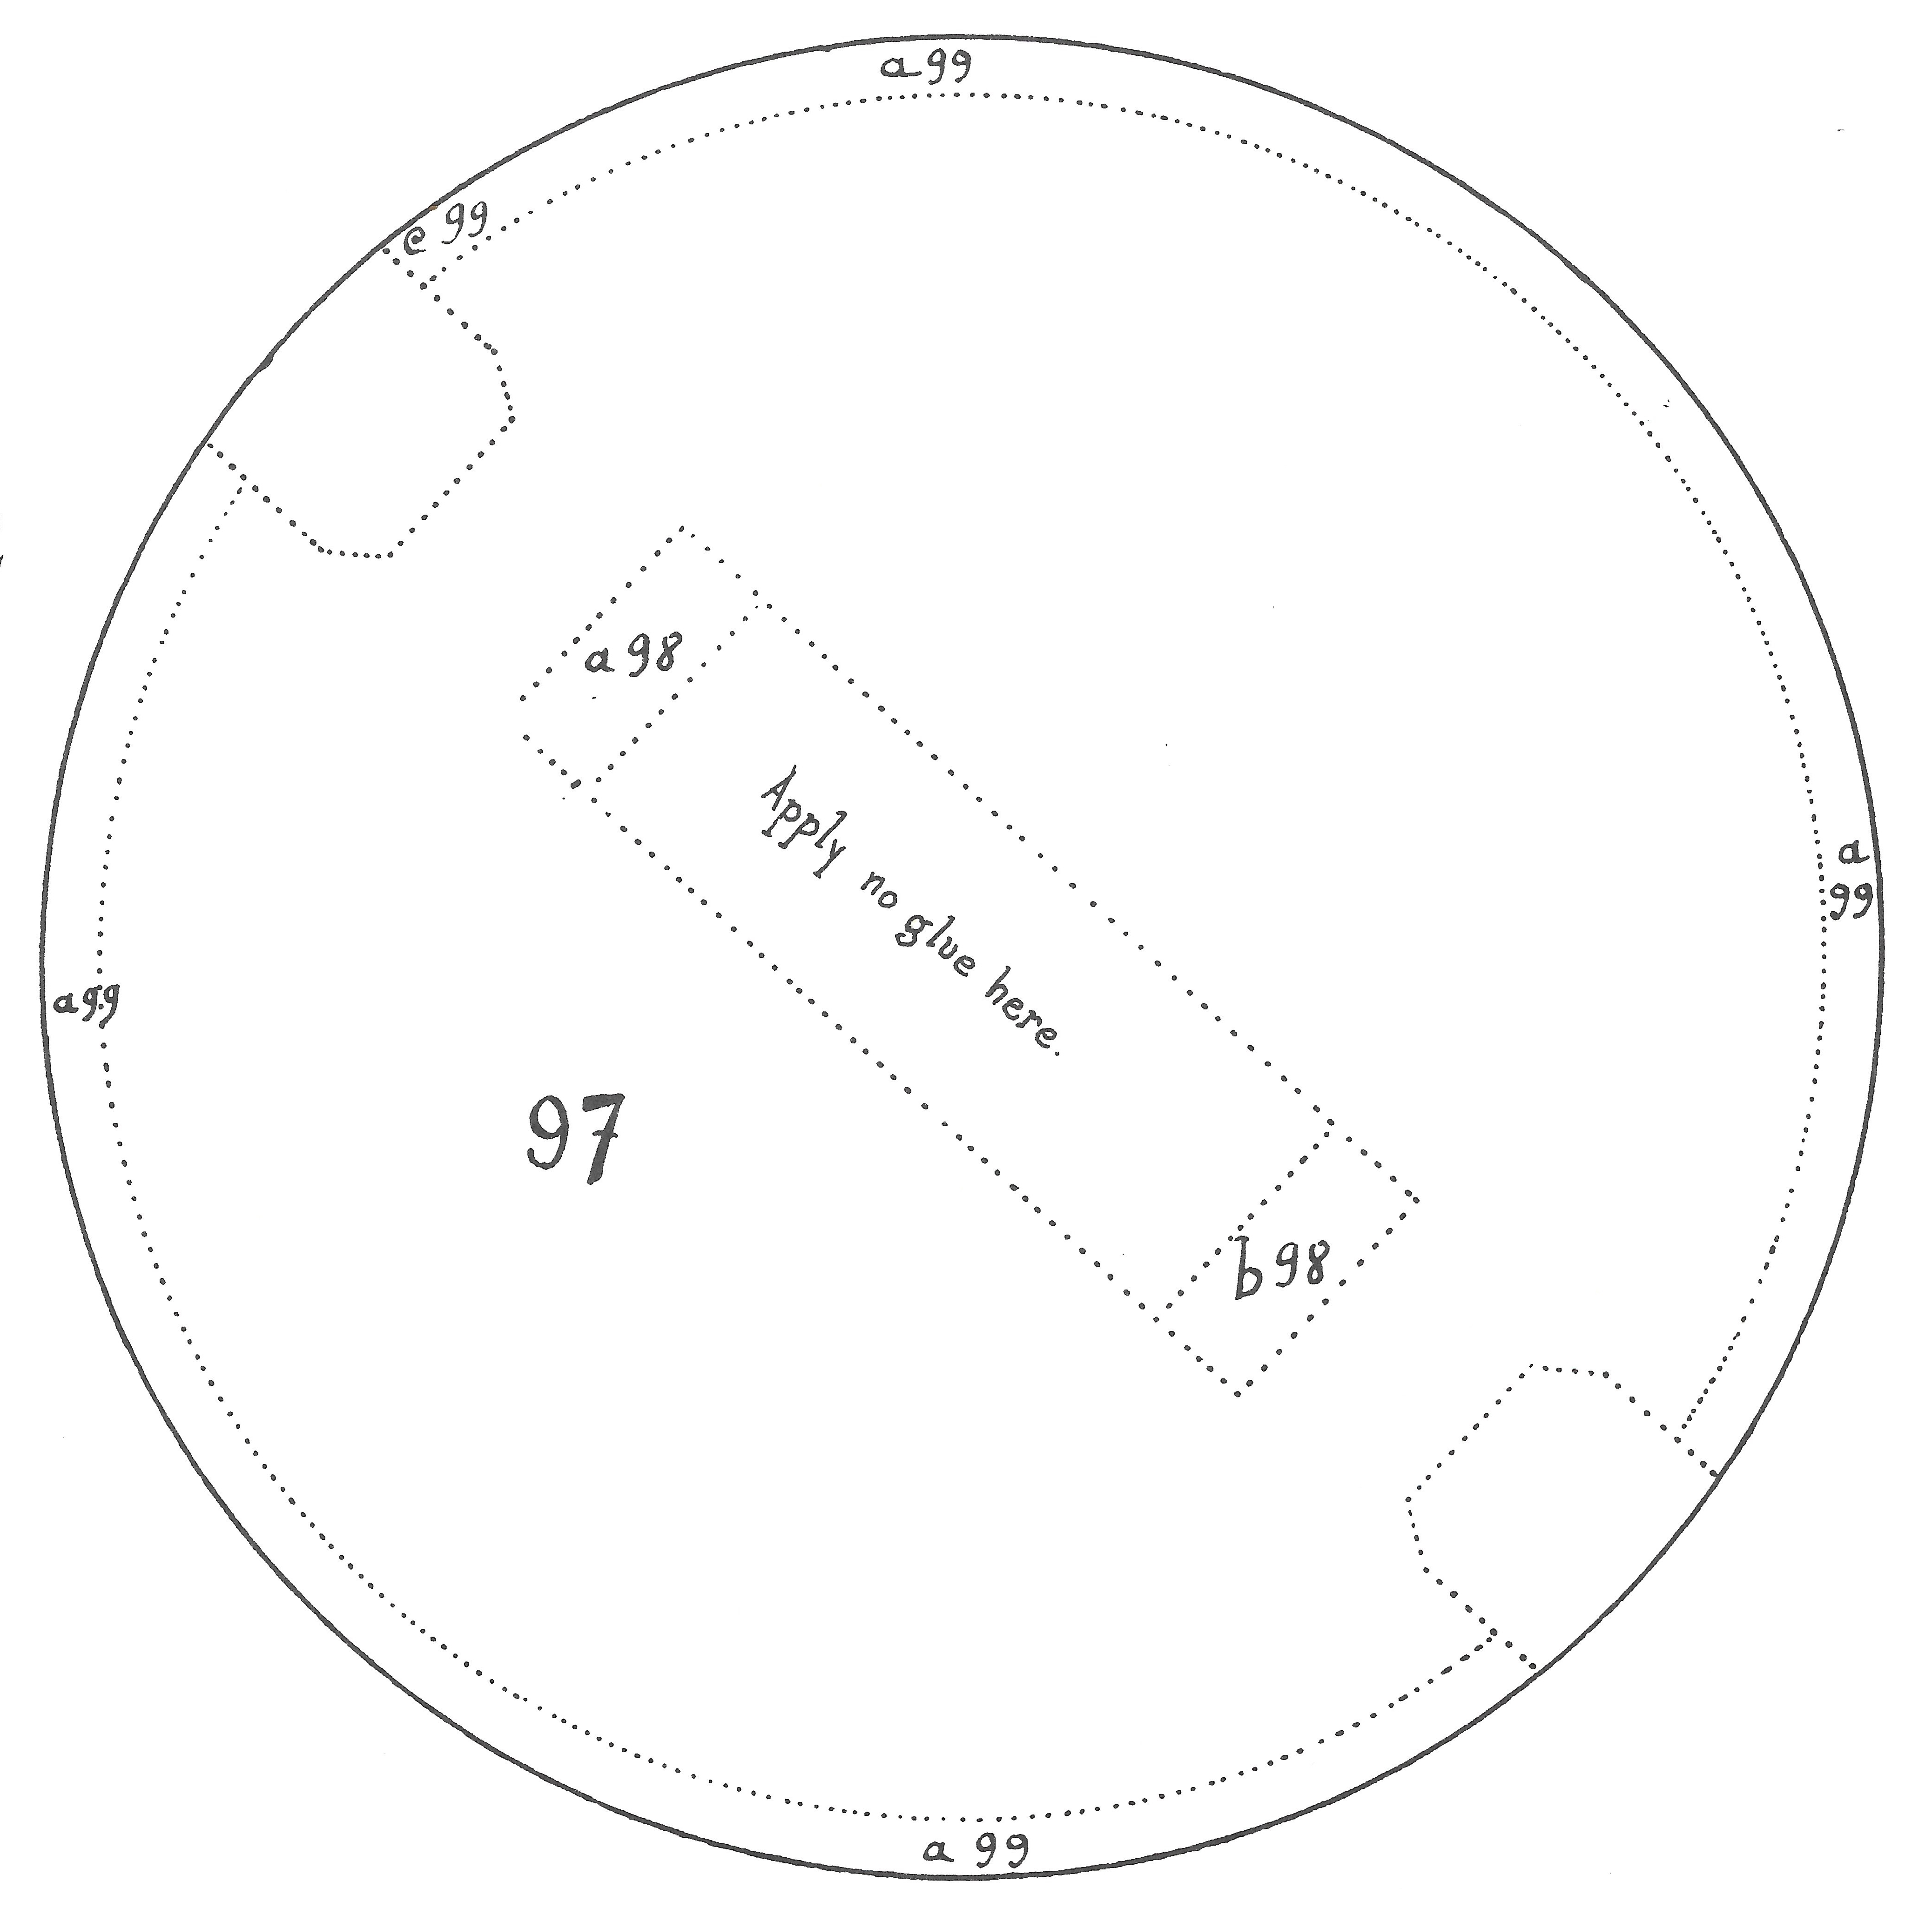
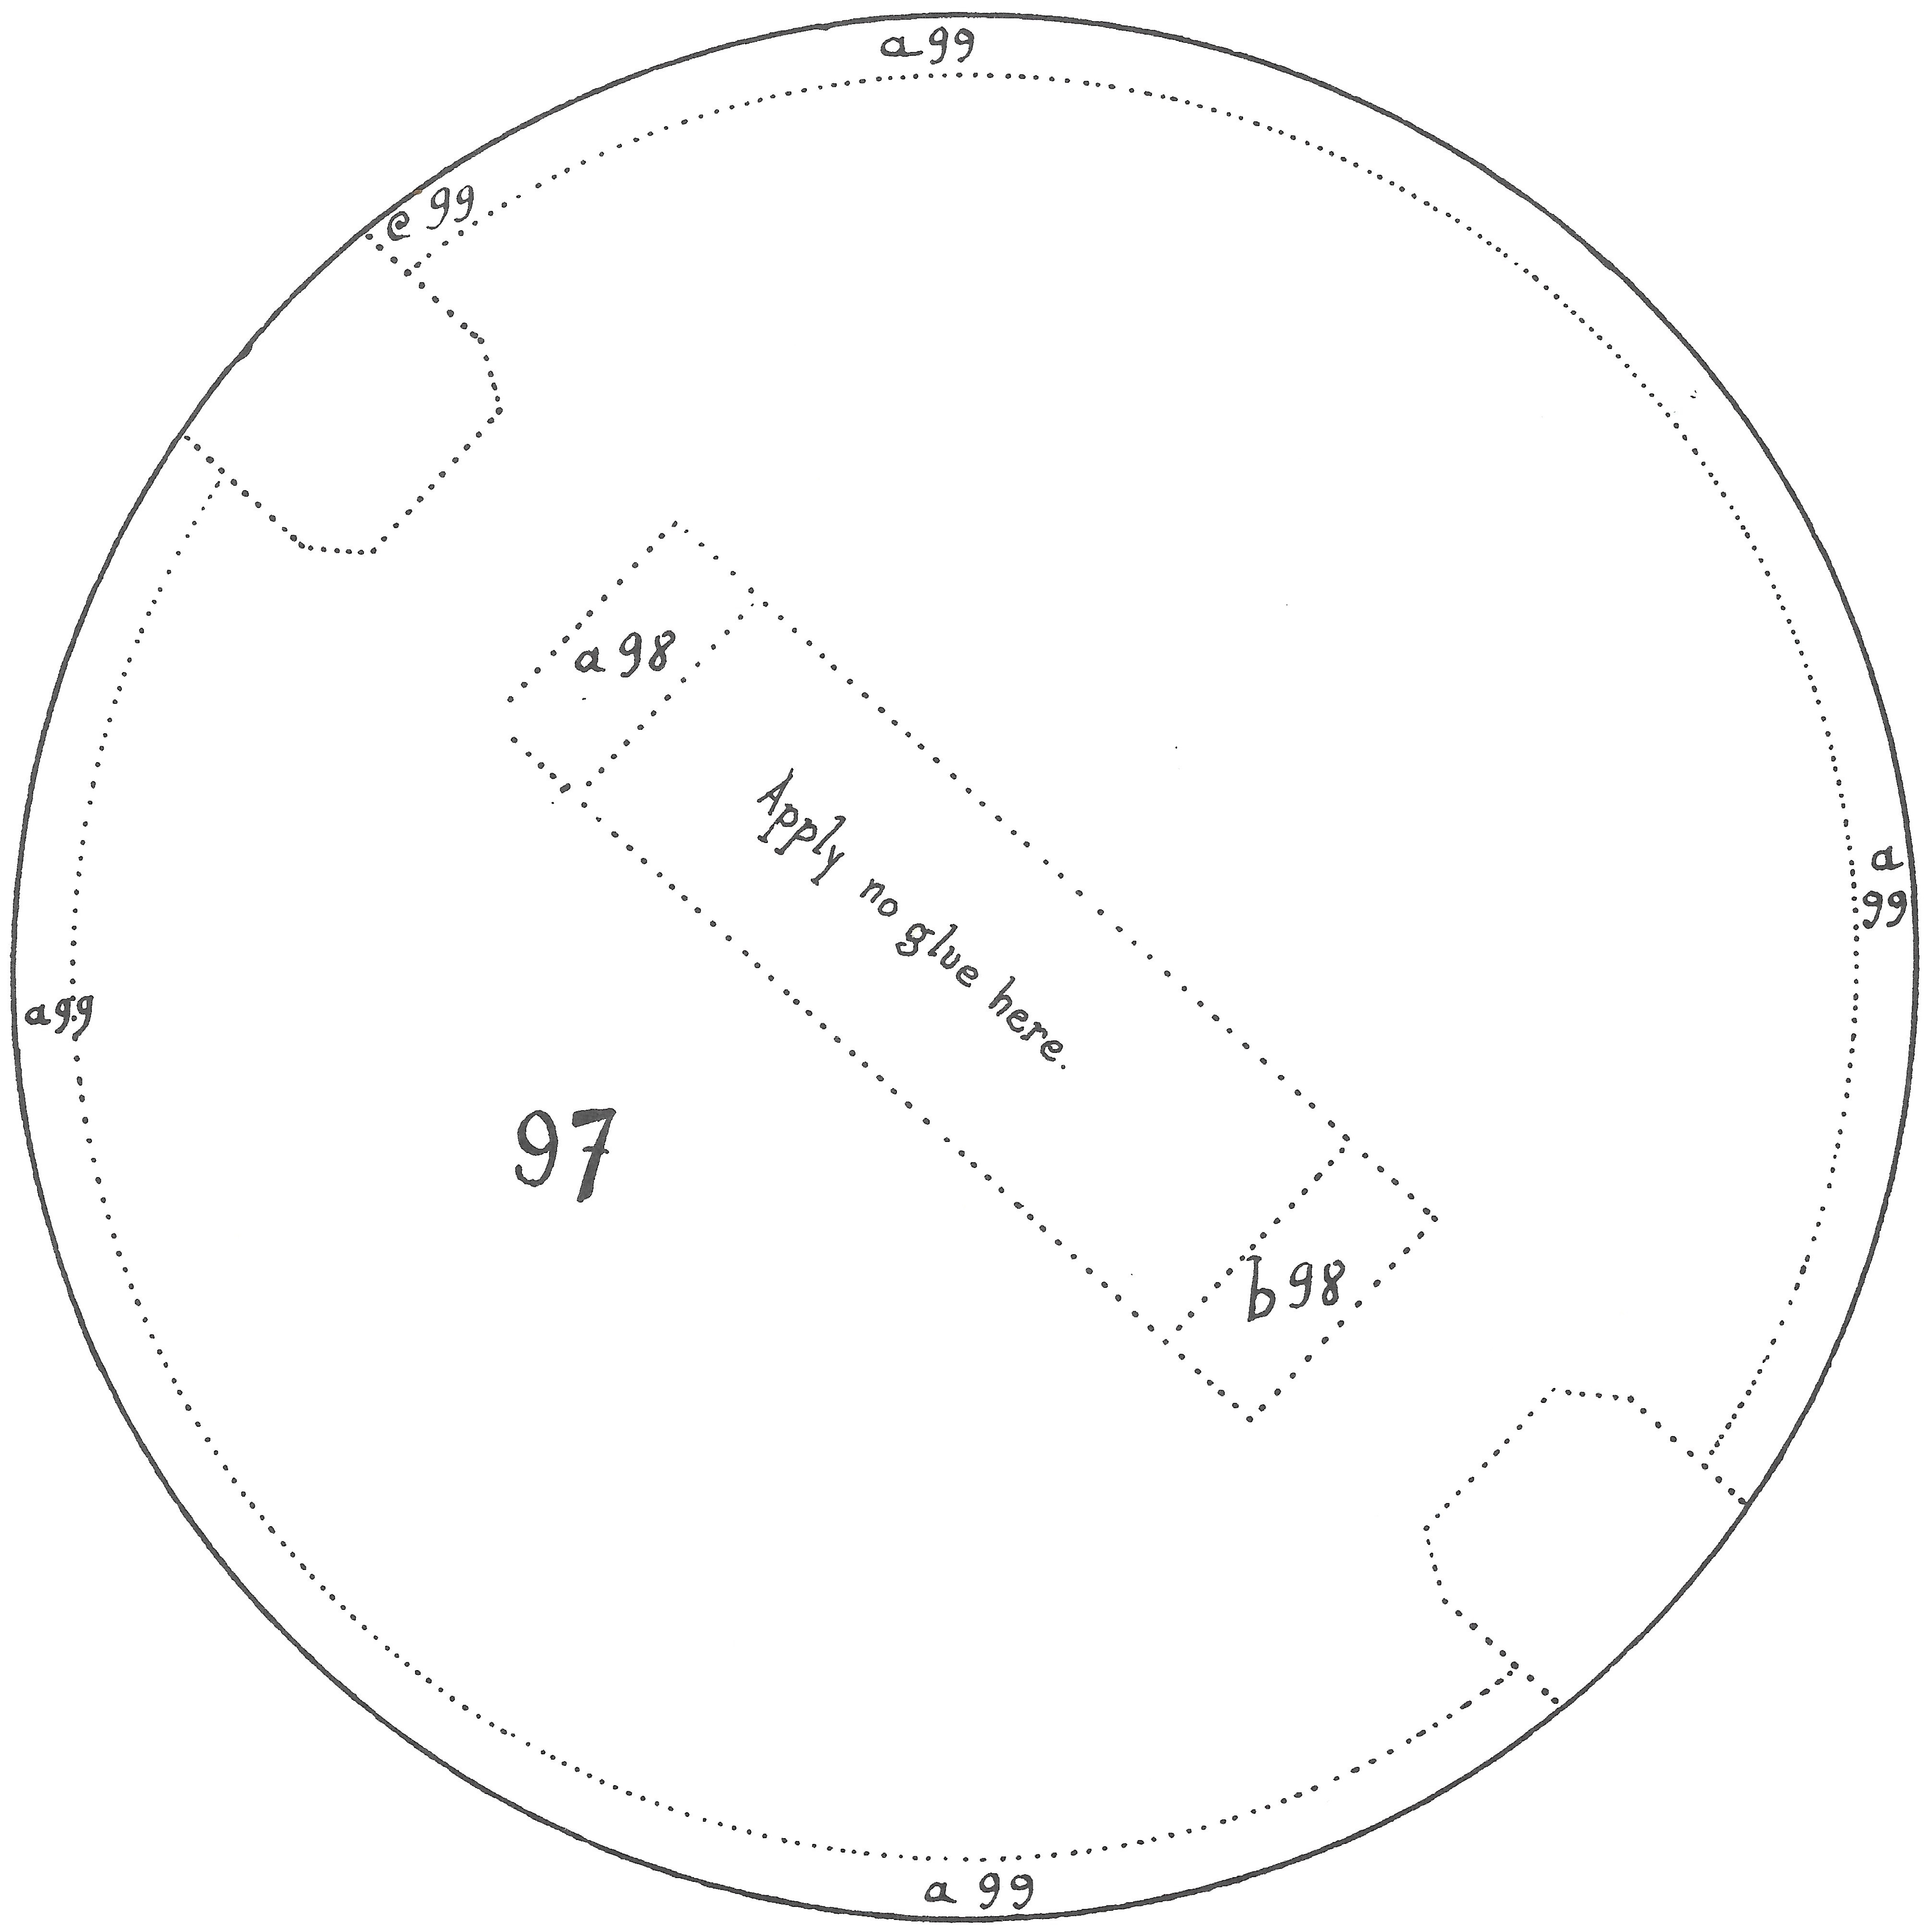
ingest 16 more pngs; 117 of 123 captured
Third ingest pass on inbox/. Sixteen new per-piece captures land in source/pieces/, including the editor crops of pieces 34/35/94 out of the stitched composites from the prior session. Plate B framework strips (003, 005, 008) and two of six brackets (012, 015) land. Plate F anchor/pendulum (065, 067) and hands (073, 075, 076, 080, 120) land. Plate G motor-wheel teeth strips (034, 035) land as tight crops out of 34_35_stitched.png. Plate H pendulum-bob casing (094) lands directly from 94_stitched.png (composite already tight). Plate M clock face (121) lands at full 5088×7016 px. pieces.csv status flipped pending → captured for all 16.

Piece 080 arrived as both 080.jpeg and 080.png with effectively identical content (mean pixel diff 0.17). The PNG is the canonical archive at source/pieces/080.png; the JPG is parked at source/scans-chunks/080.jpeg as a redundant intermediate.

Both 34_35_stitched.png and 94_stitched.png from the prior session are no longer in source/scans-chunks/ — the editor pass moved/replaced them. The L/R partials remain, so re-stitching is possible if recovery is ever needed.
[…]

diff --git a/sessions/2026-05-01-0130_cowork_inbox-ingest-batch3.md b/sessions/2026-05-01-0130_cowork_inbox-ingest-batch3.md
@@ -1,0 +1,79 @@
+---
+date: 2026-05-01
+start_time: "01:30"
+end_time: "02:00"
+mode: cowork
+participant: Zarathale (Alan)
+---
+
+## Goal
+
+Third ingest pass on `inbox/`. Sixteen new per-piece PNGs to promote, including the editor crops of pieces 34/35/94 out of the stitched composites from the prior session. After this pass, 95% of the master list is captured.
+
+## What was done
+
+**Per-piece moves to `source/pieces/`** — all 16 currently `pending` in `pieces.csv`, all flipped to `captured`:
+
+| Piece | Plate | Section | Notes |
+|---|---|---|---|
+| 003 | B | framework | Vertical frame strip (paired with 1) |
+| 005 | B | framework | Vertical frame strip (paired with 2) |
+| 008 | B | framework | Vertical frame strip (paired with 6) |
+| 012 | B | framework | Bracket piece (12/13/14 top row — 13/14 still pending) |
+| 015 | B | framework | Bracket piece (15/16/17 bottom row — 16/17 still pending) |
+| 034 | G | motor-wheel | Tight crop out of `34_35_stitched.png` |
+| 035 | G | motor-wheel | Tight crop out of `34_35_stitched.png` |
+| 065 | F | anchor-pendulum | Zig-zag anchor arm |
+| 067 | F | anchor-pendulum | Rear plate of the anchor; flap labels a–f |
+| 073 | F | hands | Star-shaped hands-assembly wheel |
+| 075 | F | hands | Star-shaped hands-assembly wheel |
+| 076 | F | hands | Small rectangular piece for minute-hand assembly |
+| 080 | F | hands | Small rectangle ("Push into wheel 78") |
+| 094 | H | anchor-pendulum | Crop out of `94_stitched.png` (composite already tight; no further cropping needed) |
+| 120 | F | reference | Axle-mount cardboard square |
+| 121 | M | face-case | Clock face — 5088×7016 px (~8.48″×11.69″ at 600 DPI), full-page color capture |
+
+Crop quality is good across the batch — printed-area margins are 0–52 px on every file (most are <30 px). Tight enough that downstream `02-trace.py` should chew on these without complaint.
+
+**`080.jpeg` parked.** The same piece arrived in `inbox/` as both `080.jpeg` (64 KB) and `080.png` (113 KB). md5s differ but pixel-mean abs difference is 0.17 — same content, with the JPG being a slightly lossy intermediate of the PNG (or vice versa). The PNG went to `source/pieces/080.png` as the canonical archive; the JPG went to `source/scans-chunks/080.jpeg` as a redundant intermediate. Nothing deleted.
+
+**Stitched composites from prior session.** After Zarathale's editor pass, both `34_35_stitched.png` and `94_stitched.png` are no longer present in `source/scans-chunks/`. The Affinity/Photoshop save flow apparently moved or replaced them. The L/R partials (`34_35_l.jpeg`, `34_35_r.jpeg`, `94_l.jpeg`, `94_r.jpeg`) remain in `source/scans-chunks/`, so re-stitching is possible if recovery is ever needed — the stitcher script is at `outputs/stitch_lr.py` in the workspace temp dir (still not promoted to the repo; flagged in batch 2 session note as "promote if more L/R captures surface").
+
+**Cumulative state: 117 of 123 captured.** 6 still pending:
+
+- **013, 014** — plate B brackets, companions to the captured 012 (top row 12/13/14)
+- **016, 017** — plate B brackets, companions to the captured 015 (bottom row 15/16/17)
+- **090** — plate F reduction-gear pulley/gear-stack disc
+- **110** — plate A face-frame end rail (the only plate-A piece still missing; 1, 2, 6, 7 all captured)
+
+**Filesystem ↔ pieces.csv parity confirmed:** 117 captured rows ↔ 117 PNG files in `source/pieces/`, zero mismatches.
+
+**`source/scans-chunks/` housekeeping (parallel work, by Zarathale).** Visible in `git status` from this session: Z renamed `10.jpeg` → `010.jpeg` (3-digit consistency), deleted some superseded chunks (`092.jpeg`, `100.jpeg`), modified one (`097.png`), and added byte-identical per-piece copies of 034/035/092/097/100 to `source/scans-chunks/` alongside the canonical copies in `source/pieces/`. The duplicate per-piece copies are Z's deliberate redundant archive — left untouched. The chunks-folder is the recovery zone, so a few extra copies are harmless.
+
+**Files touched (this session, by Cowork):**
+
+- 16 mv to `source/pieces/`
+- 1 mv to `source/scans-chunks/` (`080.jpeg`)
+- `work/pieces.csv` — 16 status flips
+- `CLAUDE.md` — `source/pieces/` row bumped (101 → 117); new dated footer entry
+- `ROADMAP.md` — M0.5.4 progress (101 → 117) + still-pending list trimmed
+
+## Open questions
+
+None new. The two open items from prior sessions remain:
+
+1. **Promote `stitch_lr.py` to `work/scripts/`?** Still no decision. With only 6 captures left and likely no more L/R partials needed (those 6 pieces are all small-to-moderate, fittable under the lid), this may not be worth promoting at all. Flagging for closeout: if the remaining 6 land cleanly without stitching, archive the script as a one-off rather than promoting.
+
+2. **Stitch quality vs. editor stitch.** Now that 094 is in `source/pieces/` directly from the cv2 stitched composite, downstream tracing is the next quality check on the seam. If `02-trace.py` produces a clean silhouette across the seam region, that's strong evidence the stitch was good. If it doesn't, fall-back is re-stitching from the L/R partials in Affinity.
+
+## Next-session handoff
+
+The remaining 6 captures should be quick:
+
+- **Plate B brackets 013, 014, 016, 017** — these sit adjacent to the already-captured 012/015 in two 1×3 rows. Likely a single bed capture for the top row (12/13/14, with 12 already in hand for cross-check) and another for the bottom (15/16/17). Per spec, multi-piece chunks list complete pieces in ascending order — so a top-row chunk would be named `12_13_14.{jpeg,png}` (re-capturing 12 alongside 13/14 is fine; the cleanest of the two captures stays in `source/pieces/`).
+- **Plate F piece 090** — single small disc; quick capture.
+- **Plate A piece 110** — face-frame end rail; sits alongside other plate-A pieces (1, 2, 6, 7, 110) Z has already captured.
+
+Once those land, M0.5.4 closes. Then M0.5.5 (ingest skill audit) becomes meaningful — the helper script queued via `CODE_PROMPT_M0.5.2-piece-scan-ingest.md` should report a clean 123/123 captured archive with no pending. After that, M0.5.6 (pipeline reshape: archive `01-crop.py`, repoint `02-trace.py` at `source/pieces/`) is the next Code session and unblocks M2.
+
+Commit message for Zarathale to paste into GitHub Desktop is at the end of the closing chat message (subject and body in two separate code blocks).

diff --git a/sessions/2026-05-01-0030_cowork_inbox-ingest-batch2.md b/sessions/2026-05-01-0030_cowork_inbox-ingest-batch2.md
@@ -1,0 +1,64 @@
+---
+date: 2026-05-01
+start_time: "00:30"
+end_time: "01:15"
+mode: cowork
+participant: Zarathale (Alan)
+---
+
+## Goal
+
+Second ingest pass on `inbox/`. Four new per-piece PNGs to promote (010, 092, 097, 100), one byte-identical leftover (004), and four L/R partial captures for long pieces 34/35 and 94 that needed stitching before they could continue down the workflow.
+
+## What was done
+
+**Per-piece moves.** Five PNGs in inbox at the root, four of them actually new:
+
+- `010.png`, `092.png`, `097.png`, `100.png` → `source/pieces/`. All four were `pending` in `pieces.csv`; status flipped to `captured`.
+- `004.png` → `source/pieces/`. Byte-identical (md5 match) to the existing `source/pieces/004.png` from the first ingest pass. The mv is a no-op for the destination's content but cleans inbox/. No status change (already `captured`).
+
+**L/R stitching (programmatic).** Four scanner partials in inbox: `34_35_l.jpeg` + `34_35_r.jpeg` (multi-piece partial covering pieces 34 and 35, plate G's long zig-zag motor-wheel teeth strips) and `94_l.jpeg` + `94_r.jpeg` (single-piece partial for piece 94, plate H's long pendulum-bob outer casing). Zarathale opted to stitch programmatically rather than continuing in Affinity (option B in the in-session question). Implementation: a one-shot Python helper using `cv2.matchTemplate` with `TM_CCOEFF_NORMED` to find the (dx, dy) overlap between L and R, followed by a vectorized linear-feathered blend across the overlap region. Both stitches scored above the 0.7 "solid" threshold:
+
+| Pair | L size | R size | Output size | Overlap dx | Y-offset dy | Score |
+|---|---|---|---|---|---|---|
+| 34_35 | 6716×1122 | 6781×1124 | 10707×1135 | 2790 px | 11 px | 0.899 |
+| 94 | 6846×1554 | 5503×1575 | 9539×1584 | 2810 px | 9 px | 0.919 |
+
+At 600 DPI: stitched 34/35 ≈ 17.84″×1.89″; stitched 94 ≈ 15.90″×2.64″. Both consistent with the book's printed piece dimensions.
+
+The L/R partials and the stitched composites all moved to `source/scans-chunks/`:
+
+- `34_35_l.jpeg`, `34_35_r.jpeg`, `34_35_stitched.png`
+- `94_l.jpeg`, `94_r.jpeg`, `94_stitched.png`
+
+**Pieces 34, 35, 94 stay `pending` in `pieces.csv`.** The stitched composites are chunks, not per-piece crops — Zarathale still needs to open `34_35_stitched.png` and `94_stitched.png` in his editor and crop tightly to per-piece PNGs (`034.png`, `035.png`, `094.png`) before they land in `source/pieces/`. A future ingest pass will move those.
+
+**Stitcher helper.** The Python script lives at the working-directory level only (not in the repo). It's a 100-line one-shot with `cv2.matchTemplate` + linear-blend composite; if Zarathale wants to keep this capability available, the next session can move it to `work/scripts/stitch_lr.py` and document it in `SCAN-INTAKE-CHECKLIST.md`. Holding off on that until there's signal that this approach scales to other long-piece captures — the spec still treats stitching as an editor-side step by default.
+
+**Cumulative state after this session:** 101 of 123 pieces captured; 22 still pending: 003, 005, 008, 012, 013, 014, 015, 016, 017, 034, 035, 065, 067, 073, 075, 076, 080, 090, 094, 110, 120, 121. Concentration is now plate B framework brackets (12–17), plate F hands/anchor/pendulum, and the clock face (121). Pieces 34/35/94 are blocked on editor cropping, not new captures.
+
+**Files touched:**
+
+- 5 mv to `source/pieces/` (004 = no-op overwrite; 010/092/097/100 = new)
+- 6 mv to `source/scans-chunks/` (4 partials + 2 stitched composites)
+- `work/pieces.csv` — 4 status flips (010/092/097/100)
+- `CLAUDE.md` — bumped `source/pieces/` and `source/scans-chunks/` rows; added a new dated footer entry
+- `ROADMAP.md` — bumped M0.5.4 progress (97 → 101); updated still-pending list
+
+## Open questions
+
+**Should the stitcher live in the repo?** The current script is in the workspace temp directory, not committed. If Zarathale anticipates more L/R partial captures across the remaining 22 pending pieces (some of plate F's anchor/pendulum work could plausibly need stitching too), it's worth promoting the script to `work/scripts/stitch_lr.py` and adding a "Programmatic stitching (alternative)" subsection to `SCAN-INTAKE-CHECKLIST.md`. If this was a one-off and the rest of the pieces fit comfortably under the lid, no need.
+
+**Stitch quality vs. editor stitch.** cv2's TM_CCOEFF_NORMED at 0.9 is a strong correlation, but it's not the same as a manual visual check. The seam region is a 2790-px-wide linear blend — should be invisible if the underlying captures had similar exposure. Worth a quick spot-check in Inkscape or Preview before the editor cropping pass to confirm the seam isn't ghosting. If it is, the L/R partials are still in `source/scans-chunks/` for a re-stitch in Affinity.
+
+## Next-session handoff
+
+Two distinct threads, in priority order:
+
+1. **Continue M0.5.4** — capture and crop the remaining 22 pieces. Plate B framework brackets (12–17) likely need a single batch capture given they're a 2×3 grid in the same plate region. Plate F has a heavier load (065/067/073/075/076/080/090). Clock face (121) is one large capture probably from plate M (per `pieces.csv`). Pieces 003/005/008 are vertical frame strips paired with already-captured ones (1/2/6). Once captures land in inbox, the same ingest loop applies.
+
+2. **Editor-side cropping for 34/35/94.** Open `source/scans-chunks/34_35_stitched.png` in Affinity, crop to two per-piece PNGs (`034.png` and `035.png`), save into inbox or directly to `source/pieces/` per Zarathale's preference. Same for `94_stitched.png` → `094.png`. Spot-check the seam region while you're in there.
+
+The pipeline reshape (M0.5.6) is unblocked any time, but if Zarathale wants the trace pipeline to chew on the captured 101 pieces in parallel with the remaining captures, that's the natural next Code session — needs a `CODE_PROMPT_M0.5.6-pipeline-reshape.md`.
+
+Commit message for Zarathale to paste into GitHub Desktop is at the end of the closing chat message (subject and body in two separate code blocks).

diff --git a/CLAUDE.md b/CLAUDE.md
@@ -66,8 +66,8 @@ The study side is complete. The build side hit a pause on 2026-04-30 over gutter
 | Track | State |
 |---|---|
 | Source scans — gen-1 (phone) | 📦 Archived 2026-04-30 to `source/_archive/phone-scans-2025/` |
-| Source scans — gen-2 chunks (`source/scans-chunks/`) | 🔄 In progress; flat-bed multi-piece chunks; 8 chunks (most of plate D + parts of E/F/G/H) landed 2026-04-30 |
-| Source pieces — gen-2 per-piece archive (`source/pieces/`) | 🔄 First batch ingested 2026-04-30: **97 of 123 captured** (95 numeric + 092a + 112a). 26 still pending — see `sessions/2026-04-30-2359_cowork_inbox-ingest.md`. Effective DPI verified at ~613 from a ruler measurement on piece 002 (above the 600-DPI spec). |
+| Source scans — gen-2 chunks (`source/scans-chunks/`) | 🔄 In progress; flat-bed multi-piece chunks. 8 chunks landed 2026-04-30 (most of plate D + parts of E/F/G/H). 2026-05-01 added L/R partials + programmatically-stitched composites for pieces 34/35 (plate G long teeth strip) and 94 (plate H pendulum-bob casing) — both stitched at score 0.9+ via cv2.matchTemplate. |
+| Source pieces — gen-2 per-piece archive (`source/pieces/`) | 🔄 **117 of 123 captured** (115 numeric + 092a + 112a). 6 still pending: 013, 014, 016, 017 (plate B brackets), 090 (plate F reduction-gear pulley/disc), 110 (plate A face-frame end rail). First batch (97) ingested 2026-04-30 — see `sessions/2026-04-30-2359_cowork_inbox-ingest.md`. Second batch (4 + L/R-stitching for 34/35/94) ingested 2026-05-01 — see `sessions/2026-05-01-0030_cowork_inbox-ingest-batch2.md`. Third batch (16 more: 003/005/008/012/015/034/035/065/067/073/075/076/080/094/120/121) ingested 2026-05-01 — see `sessions/2026-05-01-0130_cowork_inbox-ingest-batch3.md`. Effective DPI verified at ~613 from a ruler measurement on piece 002 (above the 600-DPI spec). |
 | Master piece list (`work/pieces.csv`) | ✅ Expanded 2026-04-30 to a 123-row master index: **121 numbered pieces (1–121, contiguous) + 092a + 112a**. The clock face was renumbered from 122 → 121 in the consolidation pass (face is not numbered in print; the book's piece numbering is non-contiguous and 121 is the only available slot — closes the gap). Schema: id, plate, section, bucket, status, notes. Bbox columns dropped — pipeline reads `source/pieces/` directly. |
 | Transcriptions (5 markdown files) | ✅ Complete; audited 2026-04-29; scan-independent |
 | Auto-trace test v1 + v2 | 📦 Archived (gen-1 era) |
@@ -449,7 +449,11 @@ Do not reopen these without Zarathale.
 
 ---
 
-*Last updated: 2026-04-30 (late evening / midnight pass) — first ingest from `inbox/` into `source/pieces/`. 97 per-piece PNGs landed (95 numeric + 092a + 112a); 26 still pending. `pieces.csv` status flipped from `pending` → `captured` for the 97 ingested rows. `107-weight.png` (a non-build axle/weight-wire dimension reference, originally captured separately from `107.png` because the book labels both as "107") parked in `source/scans-chunks/107-weight-reference.png` rather than in the per-piece archive — both are reference material, not pieces, and the per-piece archive only has one slot for ID 107. Effective DPI verified at ~613 from a ruler measurement on piece 002 (slightly above the 600-DPI spec). PNG headers don't carry DPI metadata; cosmetic only, nothing downstream reads it. Status table row for `source/pieces/` bumped accordingly. Duplicate clusters 021/022 and 113–116 ingested as byte-identical files in their own slots (deliberate — the four cross-shaped face braces and the two folded brackets are physically the same artwork in print; convention stays "every piece ID has its own `source/pieces/NNN.png`").*
+*Last updated: 2026-05-01 (early-morning pass) — third ingest pass on `inbox/`. 16 new per-piece PNGs landed in `source/pieces/`: 003, 005, 008, 012, 015, 034, 035, 065, 067, 073, 075, 076, 080, 094, 120, 121 (status flipped to `captured`). 080 came in as both `080.jpeg` and `080.png` (same content, mean pixel diff 0.17); the PNG is the canonical archive, the JPEG was parked at `source/scans-chunks/080.jpeg` as a redundant intermediate. Pieces 34/35 cropped out of `34_35_stitched.png` from the prior session (tight crops, 0–22 px paper margin). Piece 94 cropped from `94_stitched.png` directly (printed area covers 99%+ of the stitched composite, no further crop needed). Both `34_35_stitched.png` and `94_stitched.png` are no longer present in `source/scans-chunks/` after Zarathale's editor pass — the L/R partials remain, so re-stitching is possible if needed. Cumulative state: **117 of 123 captured**; 6 still pending (013, 014, 016, 017, 090, 110). Master-list status row + ROADMAP M0.5.4 updated.*
+
+*Earlier 2026-05-01 (just-past-midnight pass) — second ingest pass on `inbox/`. Four new per-piece PNGs landed in `source/pieces/`: 010, 092, 097, 100 (status flipped to `captured`). L/R partials for pieces 34/35 and piece 94 stitched programmatically using `cv2.matchTemplate` with TM_CCOEFF_NORMED; alignment scores 0.899 and 0.919 (above the 0.7 "solid" threshold). Stitched composites and partials archived to `source/scans-chunks/` (`34_35_l.jpeg`, `34_35_r.jpeg`, `34_35_stitched.png`, `94_l.jpeg`, `94_r.jpeg`, `94_stitched.png`). Pieces 34, 35, 94 stay `pending` — they need editor-side cropping out of the stitched composites before per-piece PNGs can land. Cumulative state: 101 of 123 captured; 22 still pending. Master-list status row + ROADMAP M0.5.4 updated.*
+
+*Earlier 2026-04-30 (late evening / midnight pass) — first ingest from `inbox/` into `source/pieces/`. 97 per-piece PNGs landed (95 numeric + 092a + 112a); 26 still pending. `pieces.csv` status flipped from `pending` → `captured` for the 97 ingested rows. `107-weight.png` (a non-build axle/weight-wire dimension reference, originally captured separately from `107.png` because the book labels both as "107") parked in `source/scans-chunks/107-weight-reference.png` rather than in the per-piece archive — both are reference material, not pieces, and the per-piece archive only has one slot for ID 107. Effective DPI verified at ~613 from a ruler measurement on piece 002 (slightly above the 600-DPI spec). PNG headers don't carry DPI metadata; cosmetic only, nothing downstream reads it. Status table row for `source/pieces/` bumped accordingly. Duplicate clusters 021/022 and 113–116 ingested as byte-identical files in their own slots (deliberate — the four cross-shaped face braces and the two folded brackets are physically the same artwork in print; convention stays "every piece ID has its own `source/pieces/NNN.png`").*
 
 *Earlier 2026-04-30 (later same day, evening pass) — settled the **faithful trace + functional sidecar** direction for the build. SVG stays artifact-faithful; mechanism geometry captured in an optional `function` block on §II.B + §II.C sidecars only. Anchor unit = escape-wheel advance per tick (one tick = 2π/N rad). Architectural Decisions table gained one new row; SPEC sidecar schema updated to document the `function` block.*
 

diff --git a/ROADMAP.md b/ROADMAP.md
@@ -112,7 +112,7 @@ When in doubt, start one tier lower than feels safe and let the output tell you 
 | 0.5.1 | Settle chunk-and-crop design; expand `pieces.csv` to 123-row master index | done | 1.0 | ~1.0 | Cowork | `pieces.csv` (123 rows), `build_master_list.py`, `SCAN-INTAKE-CHECKLIST.md` rewritten, CLAUDE.md + ROADMAP.md updated | See `sessions/2026-04-30-1900_cowork_chunk-and-crop-pivot.md`. |
 | 0.5.2 | Author piece-scan ingest skill (`SKILL.md` + Python helper at `.claude/skills/piece-scan-ingest/`) | in-progress | 1.5 | — | Cowork (SKILL.md draft) + Code (helper) | Skill validates filenames against `pieces.csv`; runs image-health checks (DPI, dims, color mode); reports captured-vs-pending status; flags anomalies. Read-only by contract. | SKILL.md drafted 2026-04-30 (see `sessions/2026-04-30-2300_cowork_M0.5.2-ingest-skill-draft.md`); helper queued via `CODE_PROMPT_M0.5.2-piece-scan-ingest.md`. |
 | 0.5.3 | Capture remaining chunks on flat-bed home scanner; promote inbox → `source/scans-chunks/` | in-progress | 3.0 | — | Cowork (Zarathale at the scanner) | Coverage of all 13 plates as multi-piece chunks. | 8 chunks landed 2026-04-30 (most of plate D + parts of E/F/G/H). Per `SCAN-INTAKE-CHECKLIST.md`. |
-| 0.5.4 | Hand-crop pieces in editor → `source/pieces/NNN.png` (lossless, three-digit zero-padded) | in-progress | 2.5 | — | Cowork (Zarathale in Affinity/Photoshop/Preview) | Up to 123 PNG files in `source/pieces/`. | Letter variants `092a.png`, `112a.png`. Per `SCAN-INTAKE-CHECKLIST.md` "Per-piece crop" section. **First batch ingested 2026-04-30: 97 of 123 (95 numeric + 092a + 112a) landed in `source/pieces/`. 26 still pending: 003, 005, 008, 010, 012–017, 034, 035, 065, 067, 073, 075, 076, 080, 090, 092, 094, 097, 100, 110, 120, 121.** Effective capture DPI verified ~613 (above 600 spec). See `sessions/2026-04-30-2359_cowork_inbox-ingest.md`. |
+| 0.5.4 | Hand-crop pieces in editor → `source/pieces/NNN.png` (lossless, three-digit zero-padded) | in-progress | 2.5 | — | Cowork (Zarathale in Affinity/Photoshop/Preview) | Up to 123 PNG files in `source/pieces/`. | Letter variants `092a.png`, `112a.png`. Per `SCAN-INTAKE-CHECKLIST.md` "Per-piece crop" section. **117 of 123 captured (115 numeric + 092a + 112a). 6 still pending: 013, 014, 016, 017 (plate B brackets), 090 (plate F reduction-gear pulley/disc), 110 (plate A face-frame end rail).** First batch (97) ingested 2026-04-30. Second batch (4 + L/R stitching for 34/35/94) ingested 2026-05-01 (`sessions/2026-05-01-0030_*`). Third batch (16 more, including the editor crops of 34/35 and 94 from the stitched composites) ingested 2026-05-01 (`sessions/2026-05-01-0130_*`). Effective capture DPI verified ~613 (above 600 spec). |
 | 0.5.5 | Run ingest skill audit; iterate on captures/crops until master list is satisfied | not-started | 0.5 | — | Cowork | Clean ingest report; `pieces.csv` `status` column reflects `captured` for all pieces. | Skill reports surface gaps; address by re-capturing or re-cropping. |
 | 0.5.6 | Reshape pipeline: archive `01-crop.py`, repoint `02-trace.py` at `source/pieces/`, update `Makefile` | not-started | 1.0 | — | Code | `01-crop.py` → `work/_archive/`; `02-trace.py` reads `source/pieces/NNN.png`; `Makefile` targets adjusted | Needs a `CODE_PROMPT_*.md` handoff. |
 | 0.5.7 | Re-run trace + layer-split on gen-2 plate D's 11 pieces | not-started | 0.5 | — | Code | 11 fresh piece directories in `work/pieces/` | Sidecars copy forward verbatim from `work/_archive/m1-plate-d-phone/pieces/0NN/piece-0NN.json` (scan-independent). |